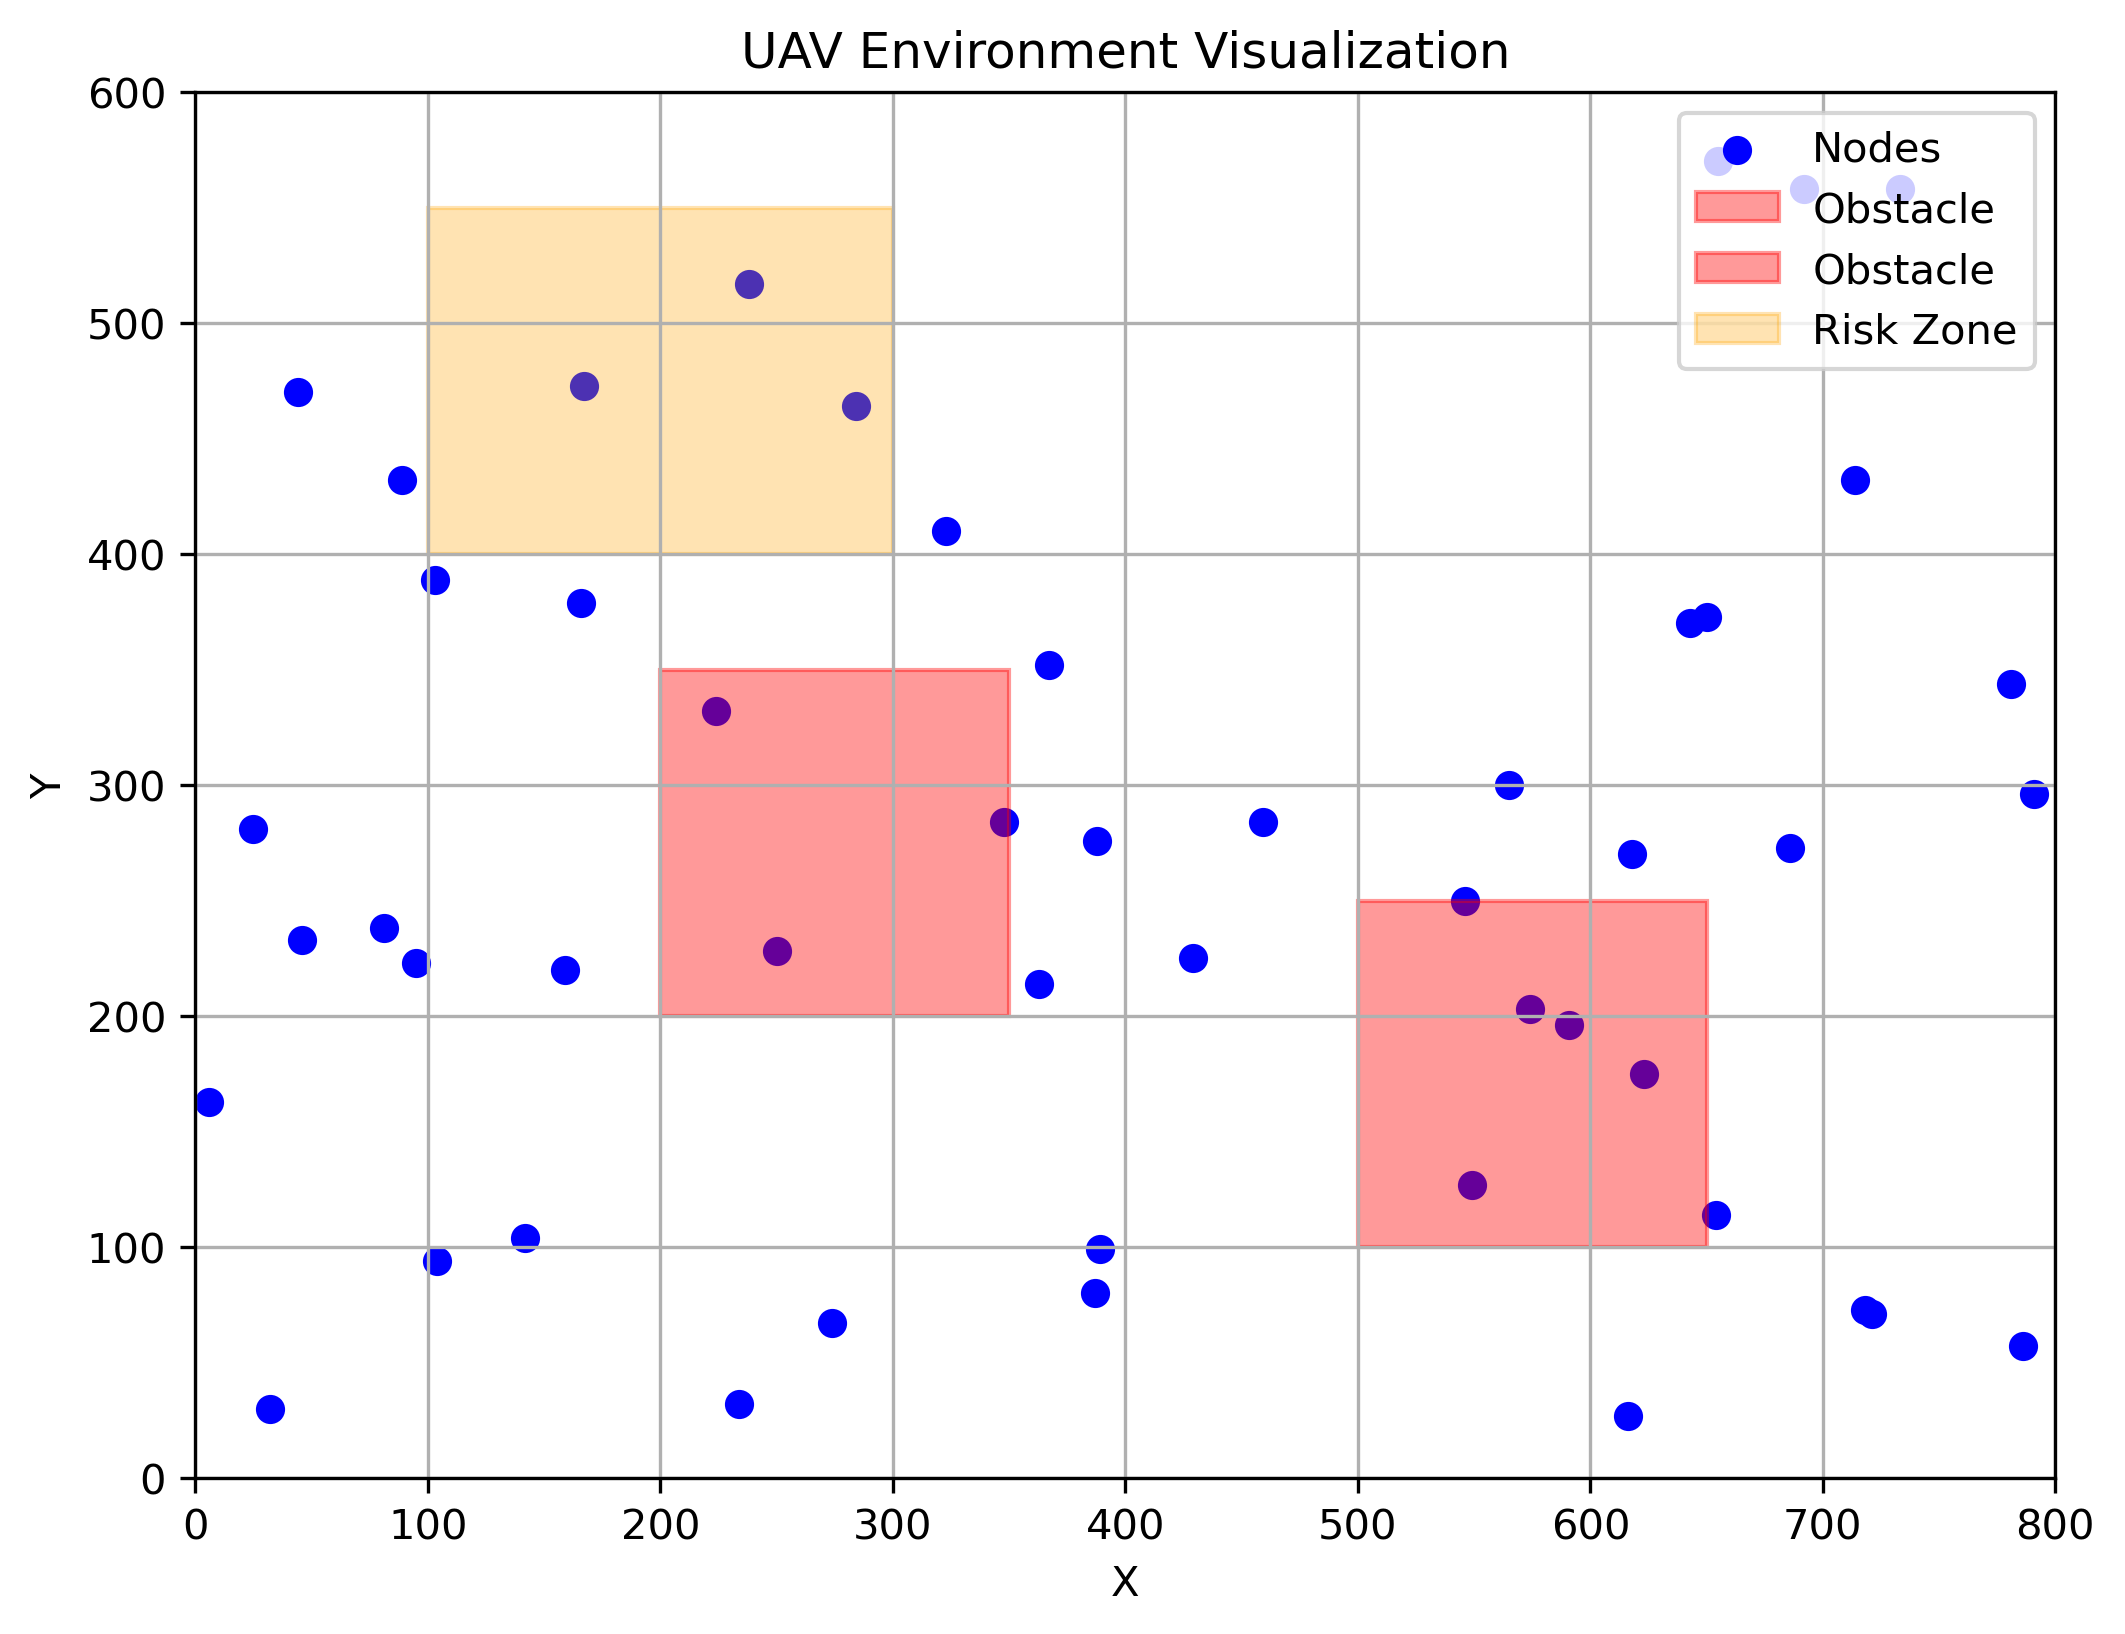
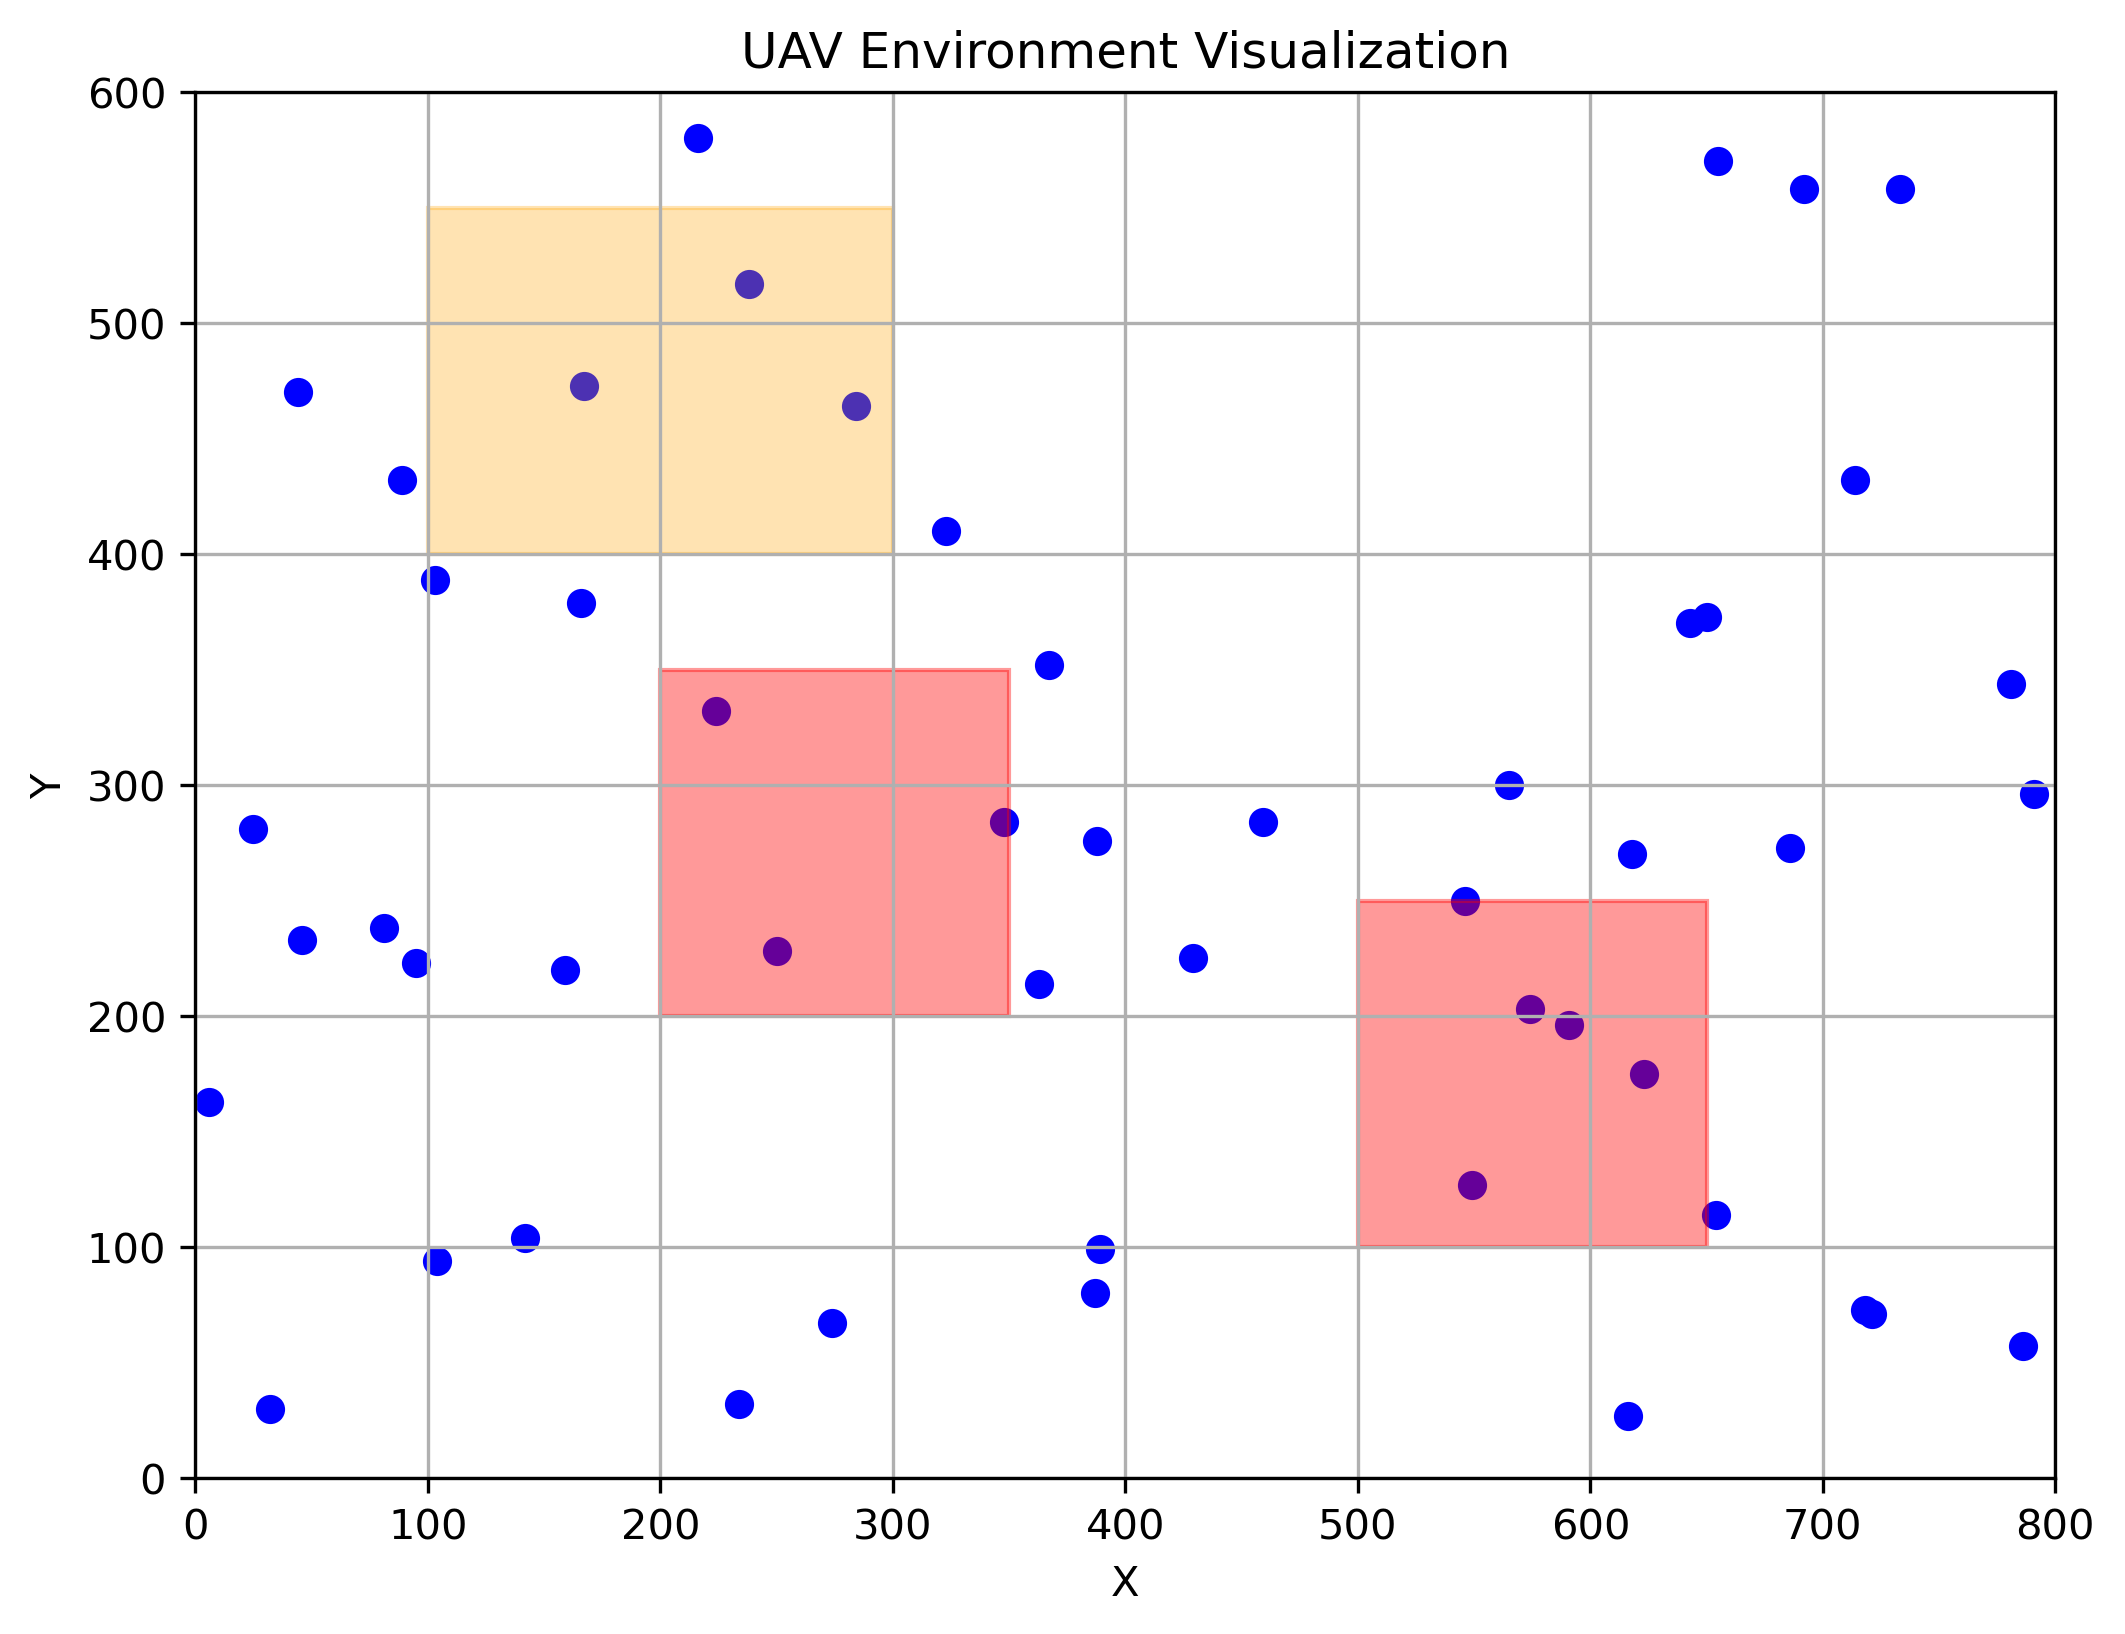
Introduced deterministic dynamic node spawning via temporal engine with config controls and hard cap; environment now supports time-based mutation while preserving energy and constraint stability

Changed region(s): [[0.7765, 0.0624, 0.9628, 0.2185], [0.3106, 0.0624, 0.3416, 0.0936]]

diff --git a/visualization/plot_renderer.py b/visualization/plot_renderer.py
@@ -1,10 +1,21 @@
 import matplotlib.pyplot as plt
+import os
 
 
 class PlotRenderer:
 
     @staticmethod
+    def _ensure_dirs():
+        os.makedirs("artifacts/figures", exist_ok=True)
+        os.makedirs("artifacts/plots", exist_ok=True)
+
+    # ----------------------------------------------------
+    # ENVIRONMENT VISUAL
+    # ----------------------------------------------------
+    @staticmethod
     def render_environment(env):
+        PlotRenderer._ensure_dirs()
+
         plt.figure(figsize=(8, 6))
 
         # -------- Nodes --------
@@ -19,8 +30,7 @@ class PlotRenderer:
                 obs.x2 - obs.x1,
                 obs.y2 - obs.y1,
                 color="red",
-                alpha=0.4,
-                label="Obstacle"
+                alpha=0.4
             )
             plt.gca().add_patch(rect)
 
@@ -31,18 +41,69 @@ class PlotRenderer:
                 rz.x2 - rz.x1,
                 rz.y2 - rz.y1,
                 color="orange",
-                alpha=0.3,
-                label="Risk Zone"
+                alpha=0.3
             )
             plt.gca().add_patch(rect)
 
         plt.title("UAV Environment Visualization")
         plt.xlabel("X")
         plt.ylabel("Y")
-        plt.legend(loc="upper right")
         plt.xlim(0, env.width)
         plt.ylim(0, env.height)
         plt.grid(True)
 
-        plt.savefig("artifacts/figures/env_phase2.png", dpi=300, bbox_inches="tight")
-        plt.show()
+        plt.savefig(
+            "artifacts/figures/env_phase2.png",
+            dpi=300,
+            bbox_inches="tight"
+        )
+        plt.close()
+
+    # ----------------------------------------------------
+    # ENERGY & VISIT PLOTS
+    # ----------------------------------------------------
+    @staticmethod
+    def render_energy_plots(visited, energy_consumed):
+        PlotRenderer._ensure_dirs()
+
+        # Visited Nodes
+        plt.figure()
+        plt.bar(["Visited Nodes"], [visited])
+        plt.title("Visited Nodes")
+        plt.savefig(
+            "artifacts/plots/visited_nodes_phase2.png",
+            dpi=300,
+            bbox_inches="tight"
+        )
+        plt.close()
+
+        # Energy Consumed
+        plt.figure()
+        plt.bar(["Energy Consumed"], [energy_consumed])
+        plt.title("Energy Consumption")
+        plt.savefig(
+            "artifacts/plots/energy_consumed_phase2.png",
+            dpi=300,
+            bbox_inches="tight"
+        )
+        plt.close()
+
+    # ----------------------------------------------------
+    # METRICS SNAPSHOT
+    # ----------------------------------------------------
+    @staticmethod
+    def render_metrics_snapshot(completion_pct, efficiency):
+        PlotRenderer._ensure_dirs()
+
+        plt.figure()
+        plt.bar(
+            ["Completion %", "Efficiency"],
+            [completion_pct, efficiency]
+        )
+        plt.title("Mission Metrics Snapshot")
+        plt.savefig(
+            "artifacts/plots/metrics_snapshot_phase2.png",
+            dpi=300,
+            bbox_inches="tight"
+        )
+        plt.close()

diff --git a/main.py b/main.py
@@ -8,6 +8,8 @@ from metrics.logger import Logger
 from core.energy_model import EnergyModel
 from core.risk_zone_model import RiskZone
 from visualization.plot_renderer import PlotRenderer
+from core.temporal_engine import TemporalEngine 
+from core.dataset_generator import spawn_single_node
 
 
 def main():
@@ -19,6 +21,14 @@ def main():
     # -------- Environment --------
     env = Environment(Config.MAP_WIDTH, Config.MAP_HEIGHT)
     env.dataset_mode = Config.DATASET_MODE
+
+    # -------- Temporal Engine --------
+    if Config.ENABLE_TEMPORAL:
+        temporal = TemporalEngine(
+            Config.TIME_STEP,
+            Config.MAX_TIME_STEPS
+        )
+
 
     # -------- Node Generation --------
     nodes = generate_nodes(
@@ -44,6 +54,33 @@ def main():
     print("Environment Summary:", env.summary())
 
     # -------- Energy Simulation --------
+
+    print("\n--- Temporal Simulation ---")
+
+    while temporal.tick():
+
+        print(f"[Time Step] {temporal.current_step}")
+
+    if (
+        Config.ENABLE_DYNAMIC_NODES and
+        temporal.current_step % Config.DYNAMIC_NODE_INTERVAL == 0 and
+        len(env.nodes) < Config.NODE_COUNT + Config.MAX_DYNAMIC_NODES
+    ):
+        new_id = len(env.nodes)
+
+        new_node = spawn_single_node(
+            Config.MAP_WIDTH,
+            Config.MAP_HEIGHT,
+            new_id
+        )
+
+        env.add_node(new_node)
+        print(f"[Dynamic] Node Spawned: {new_id}")
+
+
+
+
+    # Existing energy simulation logic goes here
     print("\n--- Energy Simulation ---")
 
     uav = env.nodes[0]
@@ -185,6 +222,12 @@ def main():
     # -------- Visualization --------
     if Config.ENABLE_VISUALS:
         PlotRenderer.render_environment(env)
+        PlotRenderer.render_energy_plots(visited, energy_consumed_total)
+        PlotRenderer.render_metrics_snapshot(
+            mission_completion,
+            energy_consumed_total
+        )
+
 
 
 if __name__ == "__main__":

diff --git a/core/temporal_engine.py b/core/temporal_engine.py
@@ -1,0 +1,28 @@
+class TemporalEngine:
+    def __init__(self, time_step=1, max_steps=100):
+        self.time_step = time_step
+        self.max_steps = max_steps
+        self.current_step = 0
+        self.active = True
+
+    def reset(self):
+        self.current_step = 0
+        self.active = True
+
+    def tick(self):
+        if not self.active:
+            return False
+
+        self.current_step += self.time_step
+
+        if self.current_step >= self.max_steps:
+            self.active = False
+
+        return self.active
+
+    def summary(self):
+        return {
+            "current_step": self.current_step,
+            "max_steps": self.max_steps,
+            "active": self.active
+        }

diff --git a/config/config.py b/config/config.py
@@ -27,3 +27,14 @@ class Config:
     ENABLE_OBSTACLES = True
     ENABLE_RISK_ZONES = True
     ENABLE_VISUALS = True
+
+
+    # -------- Temporal Engine --------
+    TIME_STEP = 1
+    MAX_TIME_STEPS = 50
+    ENABLE_TEMPORAL = True
+
+    # -------- Phase 3 Dynamic Controls --------
+    ENABLE_DYNAMIC_NODES = True
+    DYNAMIC_NODE_INTERVAL = 10   # every 10 ticks
+    MAX_DYNAMIC_NODES = 30

diff --git a/core/dataset_generator.py b/core/dataset_generator.py
@@ -16,3 +16,12 @@ def generate_nodes(mode: str, count: int, width: int, height: int, seed: int | N
 
     # Future modes can be added here (spiral, clustered, etc.)
     return nodes
+
+def spawn_single_node(width, height, node_id):
+    import random
+    from core.node_model import Node
+
+    x = random.randint(0, width)
+    y = random.randint(0, height)
+
+    return Node(node_id, x, y)
